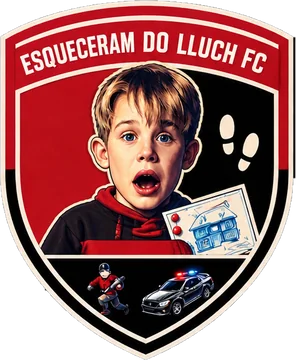
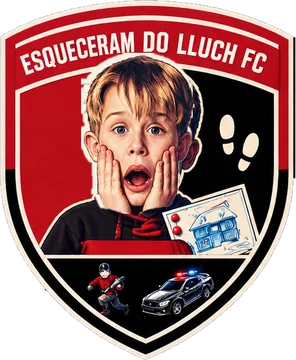
Escudo do Esqueceram do Lluch FC com o rosto da camisa (menino com as maos no rosto) no lugar do rosto antigo, sobreposto sem apagar o resto do desenho

Changed region(s): [[0.2432, 0.1222, 0.6689, 0.6111]]

diff --git a/docs/pendencias.md b/docs/pendencias.md
@@ -10684,6 +10684,16 @@ tudo agora… lembrando que essas coisas por enquanto é só pro meu usuário"):
       pretos da bola, e flood fill com tolerância 42 vaza pela arte toda.
       🎽 O gerador de post ganhou `--c3/--c3-nome` (manto de 3 cores) e o texto
       das cores agora escreve "vermelho, preto e branco".
+      🖼 TROCA DO ROSTO NO ESCUDO (pedido do Diego): entrou no escudo o MESMO
+      rosto que está na camisa — o menino com as MÃOS NO ROSTO — no lugar do
+      rosto de boca aberta. Feito por sobreposição: o rosto foi recortado da
+      camisa (GrabCut), limpo das listras brancas que grudaram na borda, ganhou
+      o mesmo contorno claro do desenho e foi colado EXATAMENTE sobre a cabeça
+      antiga (x 145-320, y 95-335). Nada do resto do escudo foi apagado — texto,
+      pegadas, casinha, ladrão e viatura seguem intactos. ⚠ A 1ª tentativa
+      pintou um retângulo pra "limpar" a área antiga e comeu as pegadas e o
+      texto; fica registrado que aqui o certo é SOBREPOR, não apagar.
+      Escudo regravado: 296×360 · 29,9 KB (teto 30 ✅).
 - [x] 🐛🪜 TÉCNICO DA DIVISÃO ERRADA — CONSERTADO (28/08, relato do Diego: "meu
       amigo já está na SÉRIE A e, ao olhar os técnicos, apareceu Lisca Doido,
       Joel Santana, Guto Ferreira — técnico de VÁRZEA. Se ele estivesse na
